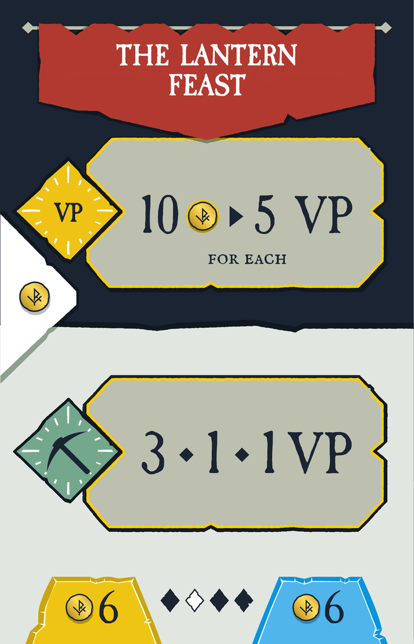
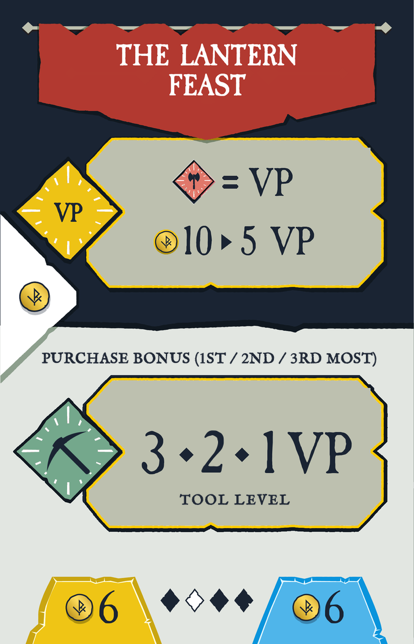
Deploy: Rocky Ventures logic 0.0.39 + UI 0.0.127 (Lantern Feast buyer bonus 3/2/1 in all games, new card art)

diff --git a/games/rocky-ventures/src/operations/feastBonus.ts b/games/rocky-ventures/src/operations/feastBonus.ts
@@ -8,7 +8,7 @@ import { recordVictoryPoints } from './stats.js'
 // (Justin, 2026-11-13). Ties share the rank; 4th place and below score nothing.
 export const FeastBuyerBonuses: Record<string, { points: number[]; measure: (state: HydratedRockyVenturesGameState, player: HydratedRockyVenturesPlayerState) => number }> = {
     // The Lantern Feast: position on the tool track.
-    [FirstEraCardId]: { points: [3, 1, 1], measure: (_state, player) => player.toolLevel },
+    [FirstEraCardId]: { points: [3, 2, 1], measure: (_state, player) => player.toolLevel },
     // The Feast of the Deep Seam: share multipliers held.
     [SecondEraCardId]: {
         points: [4, 2, 1],

diff --git a/games/rocky-ventures/src/operations/battleAxe.spec.ts b/games/rocky-ventures/src/operations/battleAxe.spec.ts
@@ -72,7 +72,7 @@ describe('Feast buyer bonus', () => {
         b!.toolLevel = 1
         c!.toolLevel = 1
         expect(feastBuyerBonus(state, a!.playerId, FirstEraCardId)).toBe(3)
-        expect(feastBuyerBonus(state, b!.playerId, FirstEraCardId)).toBe(1)
+        expect(feastBuyerBonus(state, b!.playerId, FirstEraCardId)).toBe(2)
     })
 
     it('shares a rank on a tie and gives nothing below third', () => {

diff --git a/games/rocky-ventures/src/definition/version.ts b/games/rocky-ventures/src/definition/version.ts
@@ -1,2 +1,2 @@
 // Generated by tools/scripts/write-game-version.cjs
-export const GAME_VERSION = '0.0.38'
+export const GAME_VERSION = '0.0.39'
